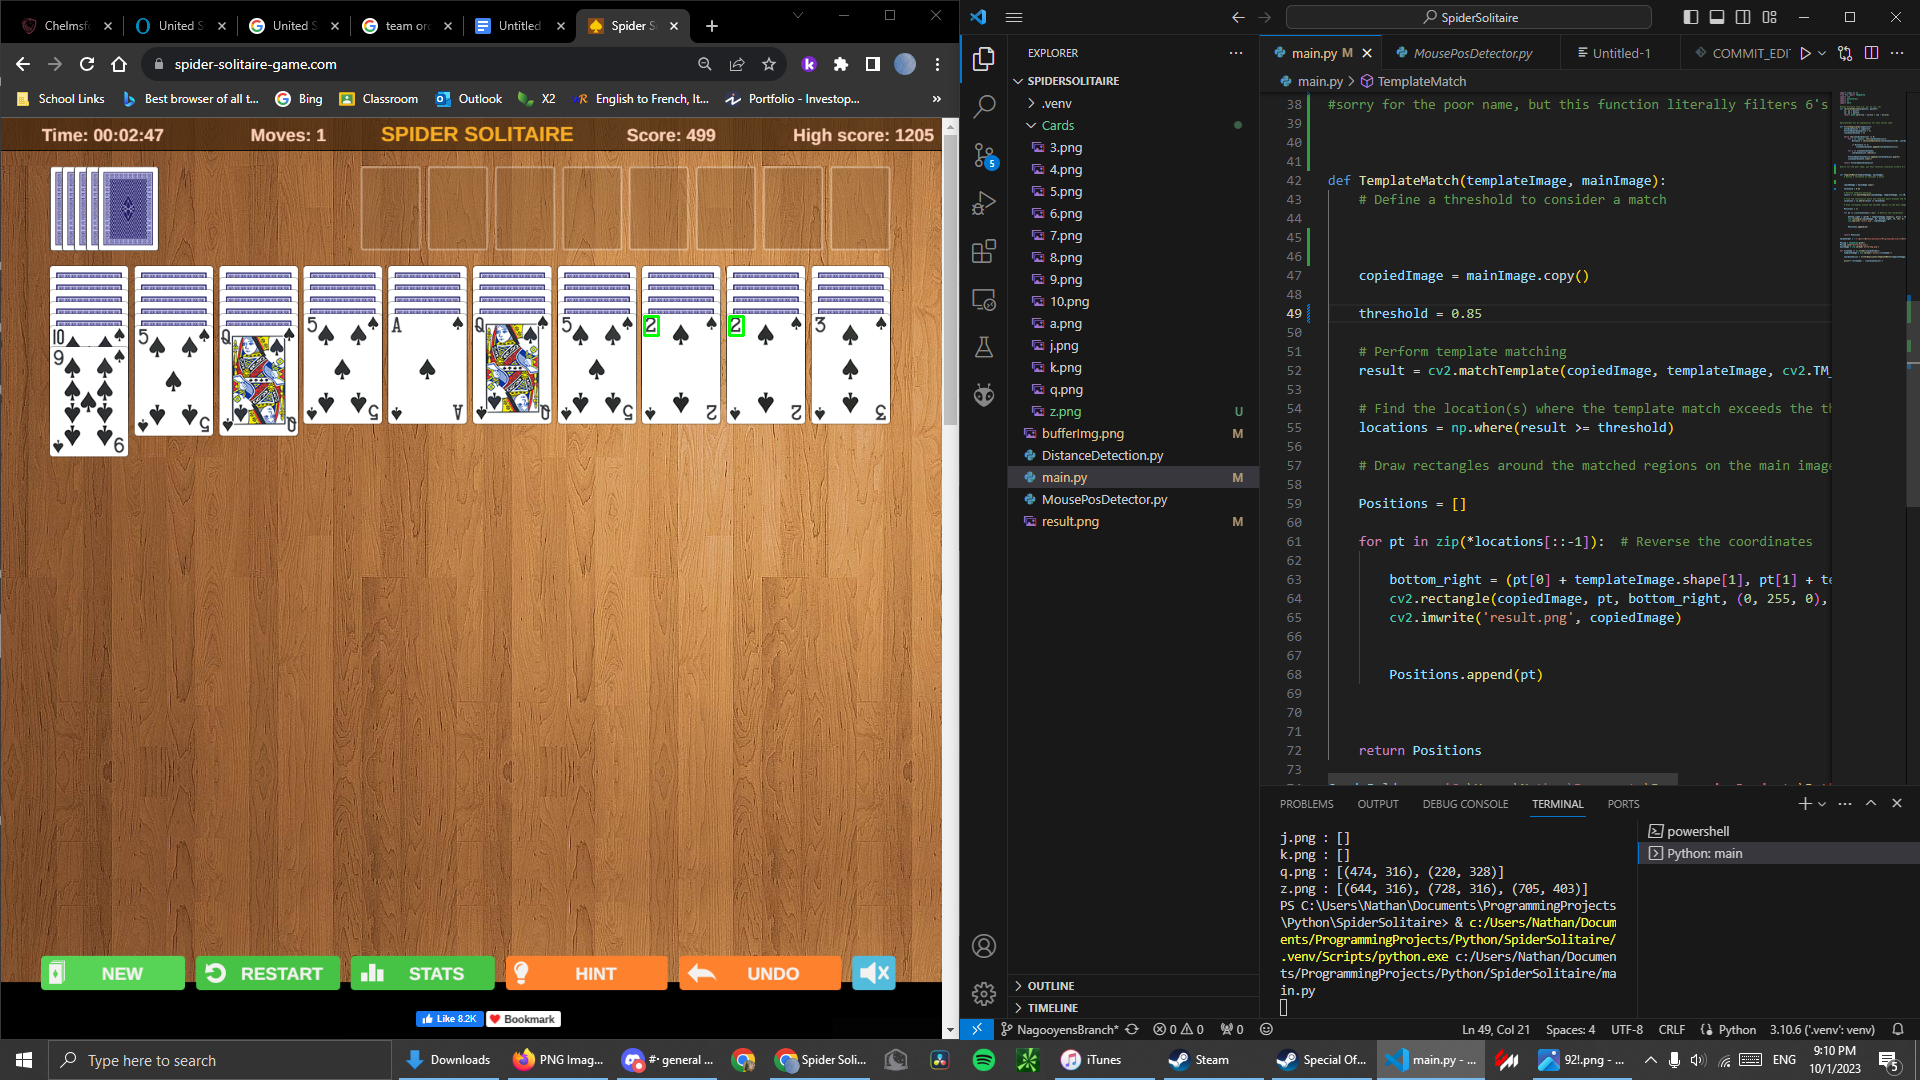
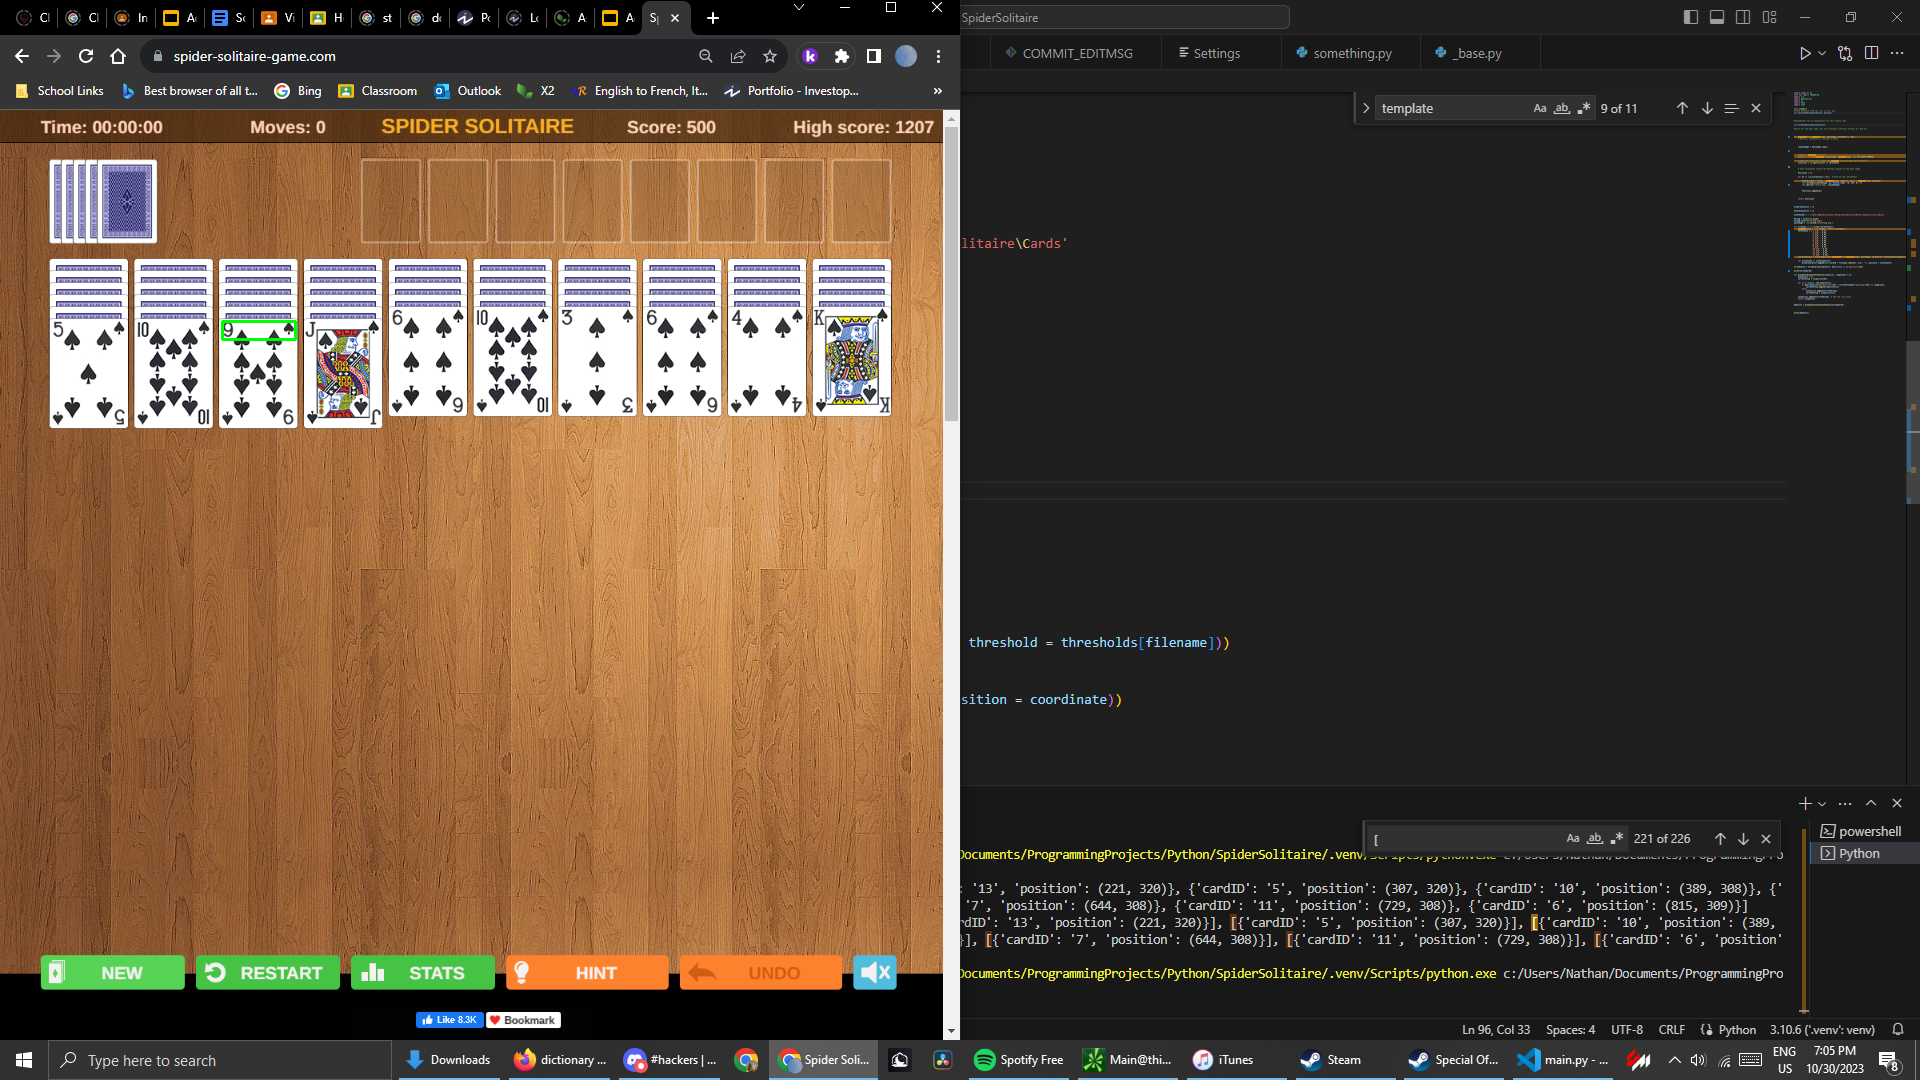
individually tuning the thresholds for each card

diff --git a/main.py b/main.py
@@ -41,20 +41,21 @@ def filterDuplicates(inputList):
 
 
 
-def TemplateMatch(templateImage, mainImage):
+def TemplateMatch(templateImage, mainImage, threshold = .93):
     # Define a threshold to consider a match
     
     
 
     copiedImage = mainImage.copy()
     
-    threshold = 0.85
+    
 
     # Perform template matching
     result = cv2.matchTemplate(copiedImage, templateImage, cv2.TM_CCOEFF_NORMED)
 
     # Find the location(s) where the template match exceeds the threshold
     locations = np.where(result >= threshold)
+
 
     # Draw rectangles around the matched regions on the main image
     
@@ -64,7 +65,7 @@ def TemplateMatch(templateImage, mainImage):
 
         bottom_right = (pt[0] + templateImage.shape[1], pt[1] + templateImage.shape[0])
         cv2.rectangle(copiedImage, pt, bottom_right, (0, 255, 0), 2)
-        #cv2.imwrite('result.png', copiedImage)
+        cv2.imwrite('result.png', copiedImage)
 
 
         Positions.append(pt)
@@ -87,15 +88,27 @@ mainImage = cv2.imread('bufferImg.png')
 
 for filename in os.listdir(CardsFolder):
     templateImage = cv2.imread(f"Cards\\{filename}")
-
-    coordinateList = filterDuplicates(TemplateMatch(templateImage, mainImage))
+    thresholds = {"1.png" : 0.92,
+                  "2.png" : 0.93,
+                  "3.png" : 0.93,
+                  "4.png" : 0.93,
+                  "5.png" : 0.93,
+                  "6.png" : 0.96,
+                  "7.png" : 0.93,
+                  "8.png" : 0.96,
+                  "9.png" : 0.93,
+                  "10.png" : 0.93,
+                  "11.png" : 0.93,
+                  "12.png" : 0.93,
+                  "13.png" : 0.93}
+    coordinateList = filterDuplicates(TemplateMatch(templateImage, mainImage, threshold = thresholds[filename]))
     
     for coordinate in coordinateList:
         primaryCardList.append(dict(cardID = filename.replace(".png", ""), position = coordinate))
         
 sortedCards = sorted(primaryCardList, key=lambda x: x['position'][0])
 
-
+print(sortedCards)
 
 def groupCoordinatesIntoStacks(inputList, rangeLimit = 5):
     outputList = []
